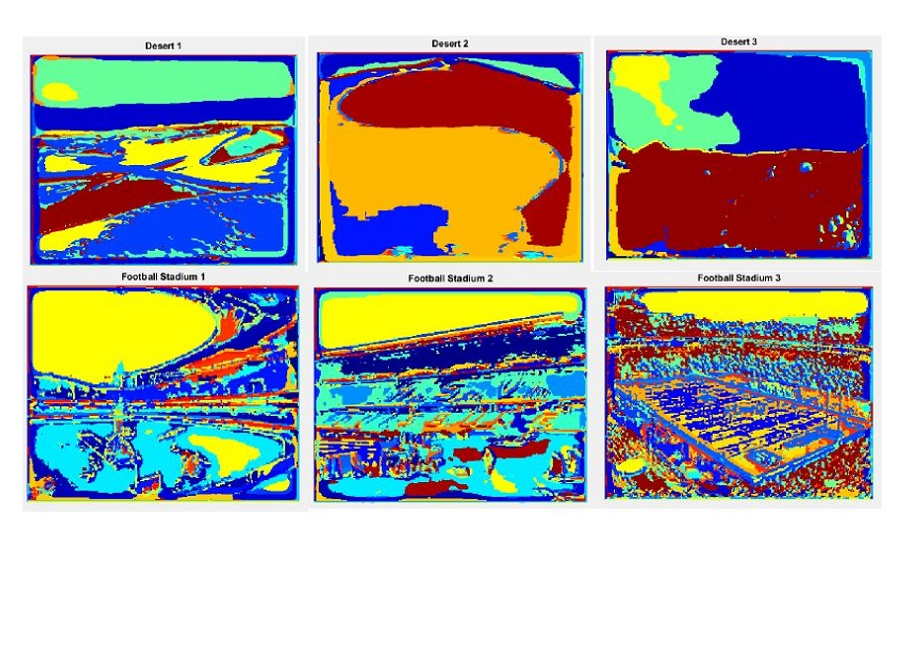
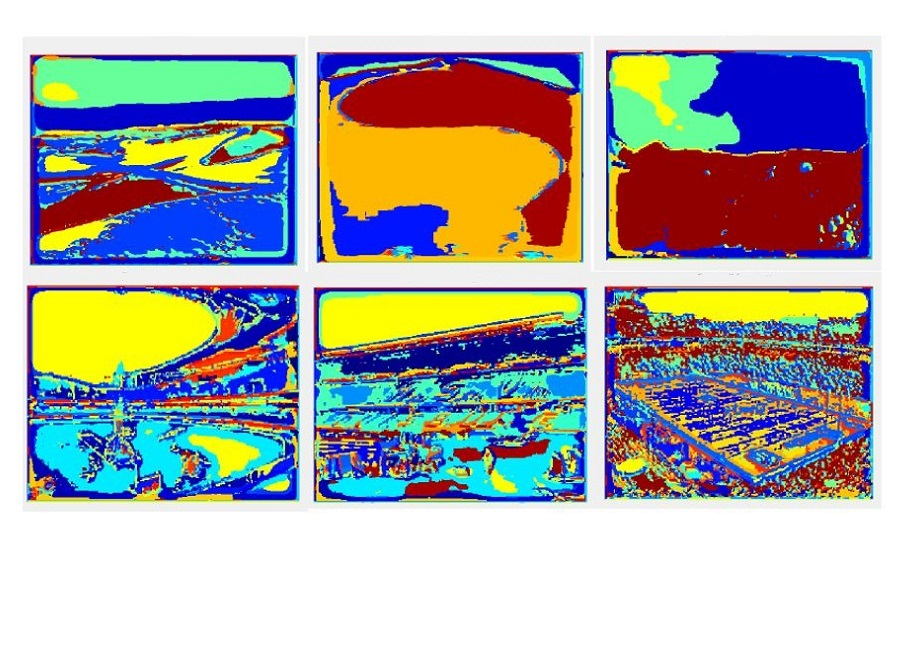
edited the pic for the bag of words. begain editing the bag bag of words portfolio.

diff --git a/index.html b/index.html
@@ -669,22 +669,20 @@
                         <div class="modal-body">
                             <h2>Scene Recognition with Bag of Words</h2>
                             <hr class="star-primary">
-                            <img src="img/portfolio/submarine.png" class="img-responsive img-centered" alt="">
-                            <p>Use this area of the page to describe your project. The icon above is part of a free icon set by <a href="https://sellfy.com/p/8Q9P/jV3VZ/">Flat Icons</a>. On their website, you can download their free set with 16 icons, or you can purchase the entire set with 146 icons for only $12!</p>
-                            <ul class="list-inline item-details">
-                                <li>Client:
-                                    <strong><a href="http://startbootstrap.com">Start Bootstrap</a>
-                                    </strong>
-                                </li>
-                                <li>Date:
-                                    <strong><a href="http://startbootstrap.com">April 2014</a>
-                                    </strong>
-                                </li>
-                                <li>Service:
-                                    <strong><a href="http://startbootstrap.com">Web Development</a>
-                                    </strong>
-                                </li>
-                            </ul>
+			
+                            <img src="img/portfolio/sceneRecognition_1.jpg" class="img-responsive img-centered" alt="">
+                            <p>The aim of this project was to develop a system that would be able to classify an image into 8 categories: aquarium, beach, bridge, conference room, gas station, park, parking lot and waterfall. Two
+			      approaches were taken, a bag of words method using a spatial matching histogram and a support vector machine (SVM). </p>
+
+			    <br>
+			    </br>
+
+			    <p>
+			      A bank of 38 filters (gaussian, sobel, laplacian, and gabor) were appliied to each image in the training set. Points were selected from the filter responses and clustered using K-Means to create the
+			      the visual words for the 
+			    </p>
+			    
+                           
                             <button type="button" class="btn btn-default" data-dismiss="modal"><i class="fa fa-times"></i> Close</button>
                         </div>
                     </div>
